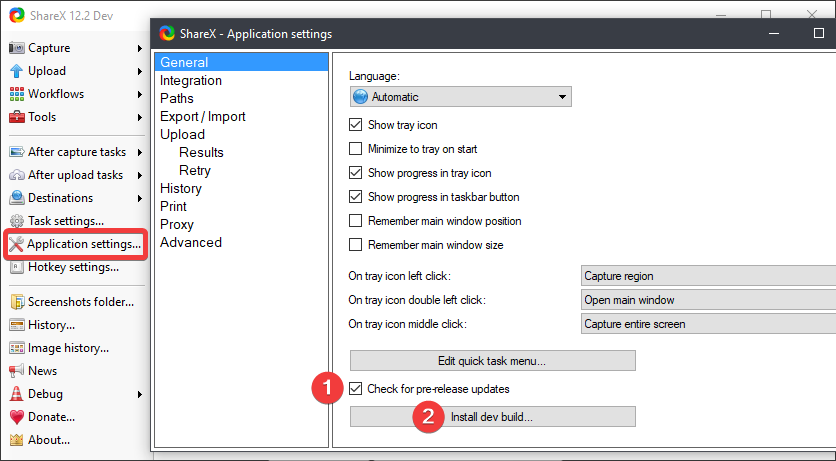
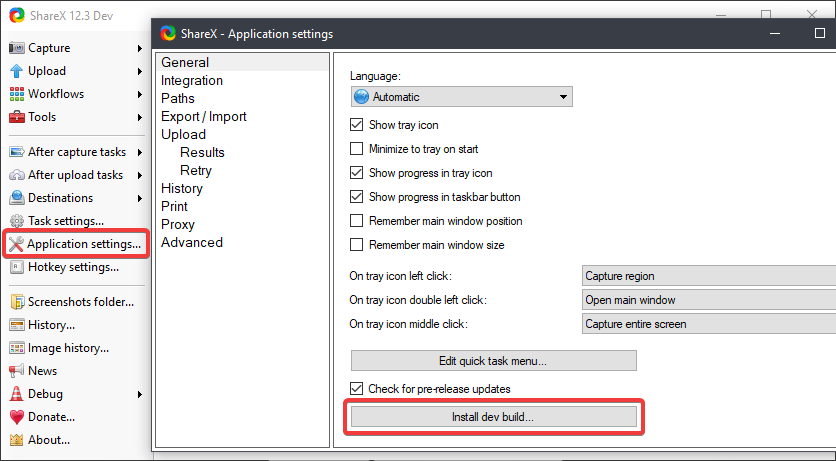
Update dev builds page

diff --git a/docs/dev-builds.md b/docs/dev-builds.md
@@ -5,10 +5,6 @@ title: Dev builds
 
 * Open "Application settings" window either from main window or tray menu.
 
-* If it is not already checked, click on "Check for pre-release updates" checkbox to check it.
-
-* "Install dev build" button gonna become visible under that checkbox. Dev build is not related to pre-release but we made it this way to make sure only people who knows what is dev build to download it.
-
 * Click "Install dev build" button to start auto update progress. If it gave error, most likely that could mean we uploaded new code changes and setup is not compiled with latest changes yet or latest code base is failing to compile. So you can wait few minutes and try clicking install button again.
 
 ![](/img/ScreenshotDevBuilds.png)
